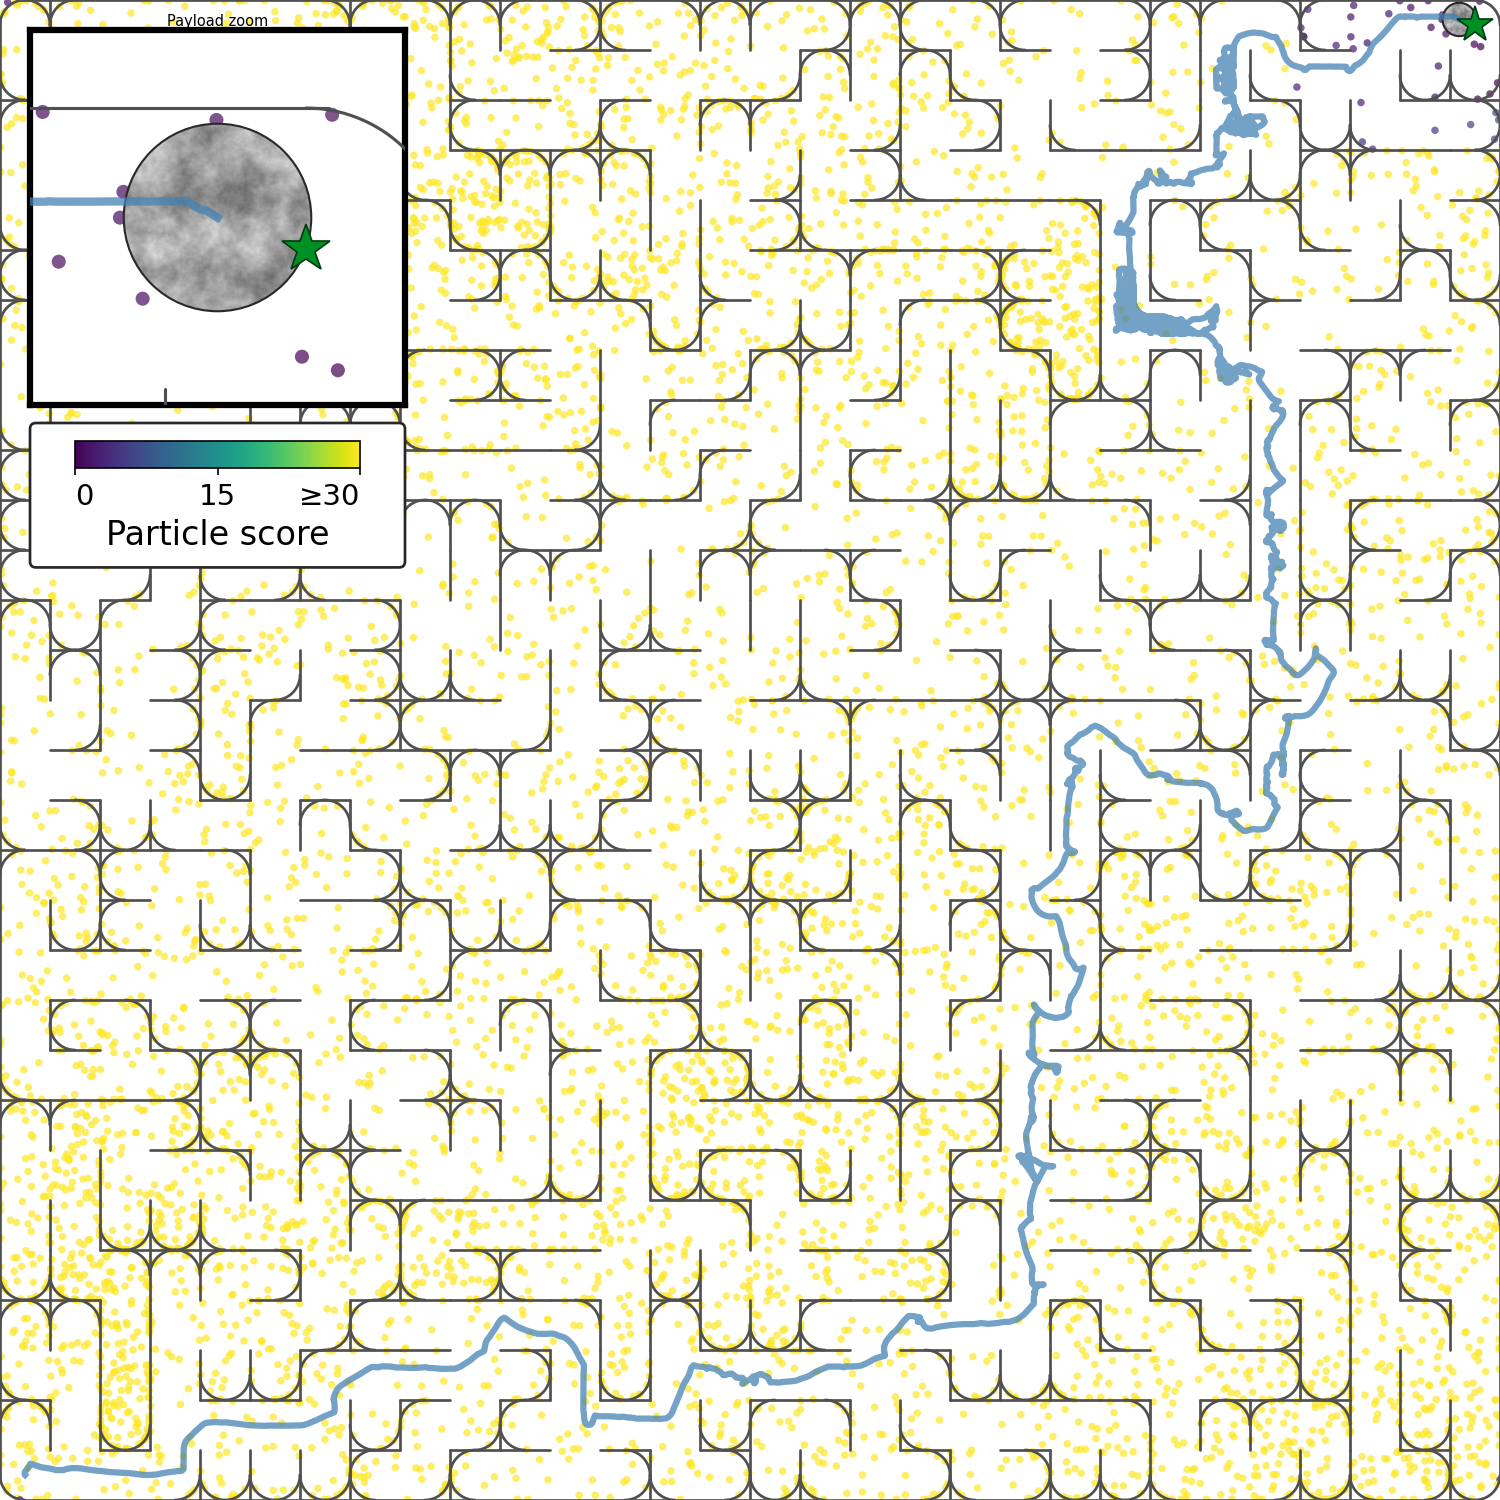
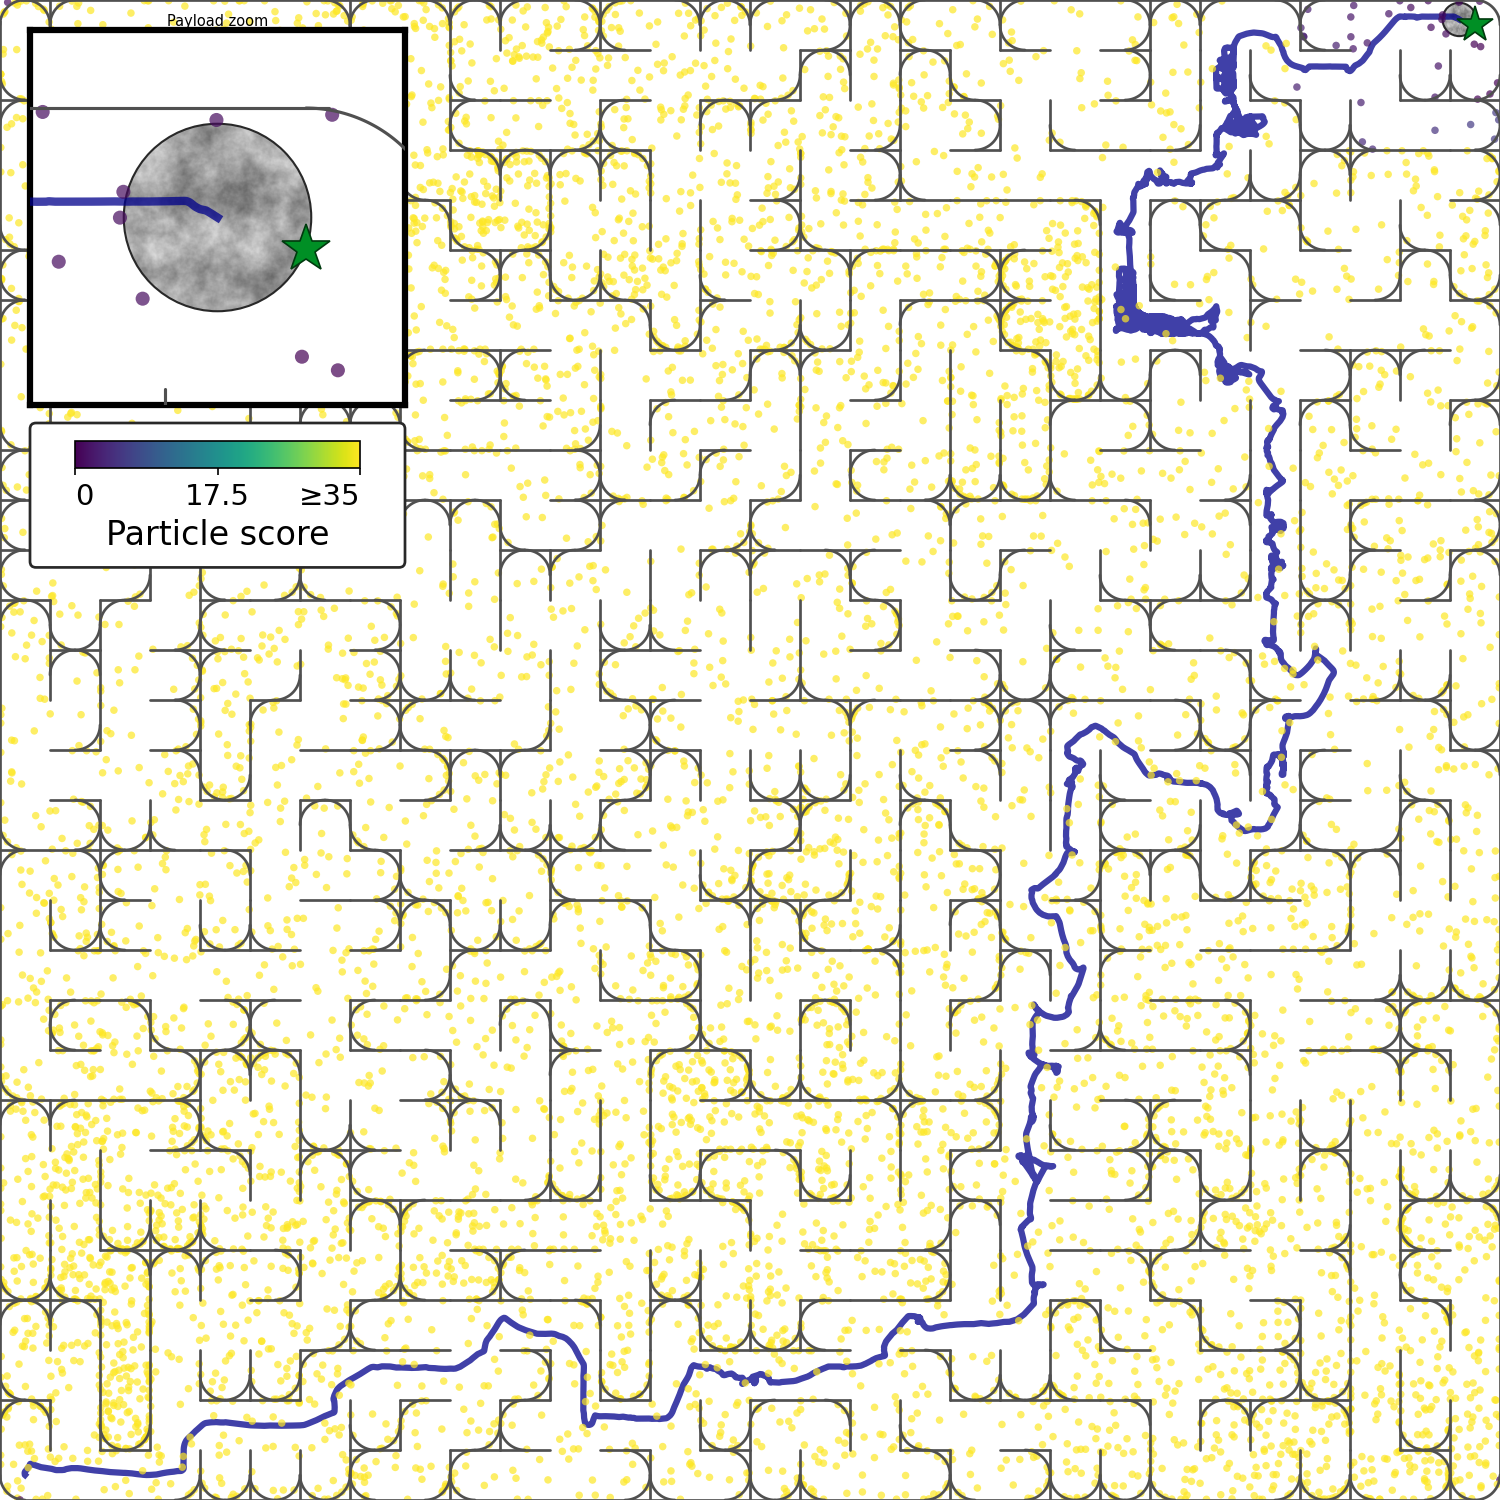
maxcolor_score adjustments + clearer payload path fig6a-c

diff --git a/figures/fig6/abc/render_final_frame.py b/figures/fig6/abc/render_final_frame.py
@@ -30,7 +30,7 @@ if len(_sys.argv) > 1:
     OUTPUT_IMAGE = os.path.join(_HERE, f"{_stem}.png")
 
 # Per-maze score at which the colormap saturates (yellow); keyed by G number.
-MAXCOLOR_SCORE_BY_G = {5: 5, 10: 15, 20: 22, 30: 30}
+MAXCOLOR_SCORE_BY_G = {5: 5, 10: 10, 20: 20, 30: 35}
 import re as _re
 _m = _re.search(r"_G(\d+)_", os.path.basename(SOURCE_FILE))
 MAXCOLOR_SCORE = MAXCOLOR_SCORE_BY_G.get(int(_m.group(1)) if _m else None, 35)
@@ -254,7 +254,7 @@ def score_color(s):
 
 PAYLOAD_COLOR  = '#737BA8'
 GOAL_COLOR     = '#008F25'   # dark green
-PATH_COLOR     = '#4682B4'   # steel blue
+PATH_COLOR     = '#00008B'   # dark blue (same as fig1e default payload path)
 
 # Payload texture: Perlin noise mapped from light to dark grey (as in fig1e)
 PAYLOAD_GRAY_LIGHT    = (0.86, 0.86, 0.86)
@@ -416,7 +416,7 @@ if __name__ == "__main__":
     display_radii = np.maximum(particle_radius, min_r) * radius_scale
     circles = [mpatches.Circle((x, y), radius=ri)
                for (x, y), ri in zip(last_positions, display_radii)]
-    pc = PatchCollection(circles, facecolors=colors, alpha=0.7, linewidths=0, zorder=6)
+    pc = PatchCollection(circles, facecolors=colors, alpha=0.7, linewidths=0, zorder=9)
     ax.add_collection(pc)
 
     # Payload (final position) — Perlin-noise grey texture
@@ -509,7 +509,7 @@ if __name__ == "__main__":
         rel_y = last_positions[:, 1] - py_final
         inset_circles = [mpatches.Circle((dx, dy), radius=ri * radius_scale)
                          for dx, dy, ri in zip(rel_x, rel_y, particle_radius)]
-        inset_pc = PatchCollection(inset_circles, facecolors=colors, alpha=0.7, linewidths=0, zorder=6)
+        inset_pc = PatchCollection(inset_circles, facecolors=colors, alpha=0.7, linewidths=0, zorder=9)
         inset_ax.add_collection(inset_pc)
 
         # Payload at origin — Perlin-noise grey texture
